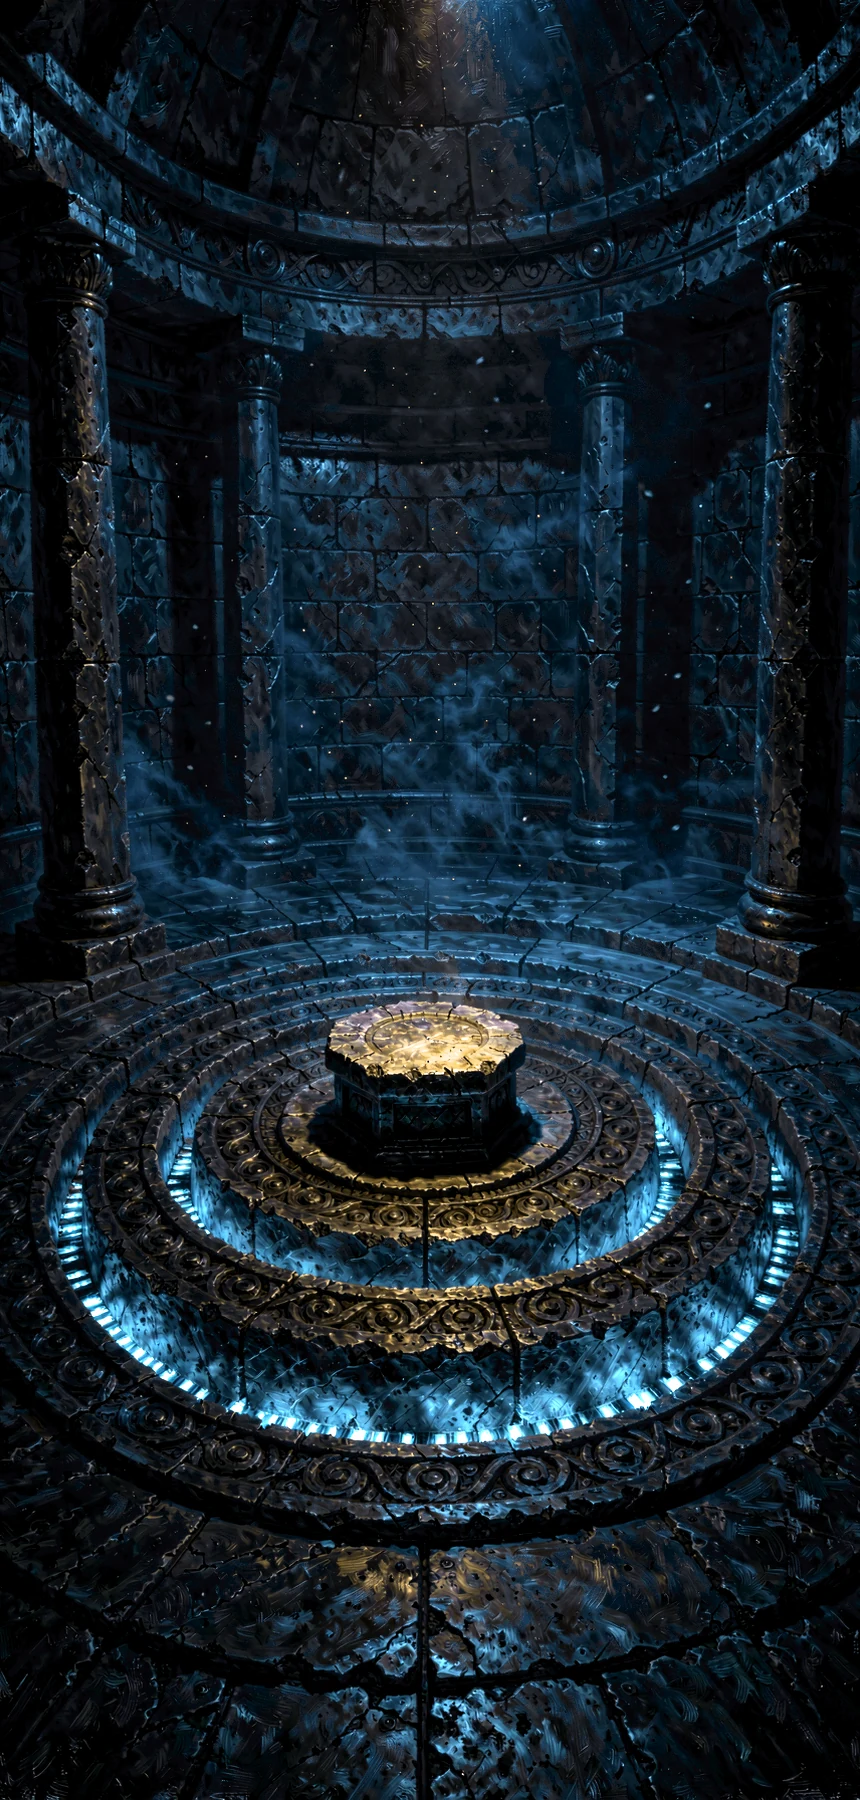
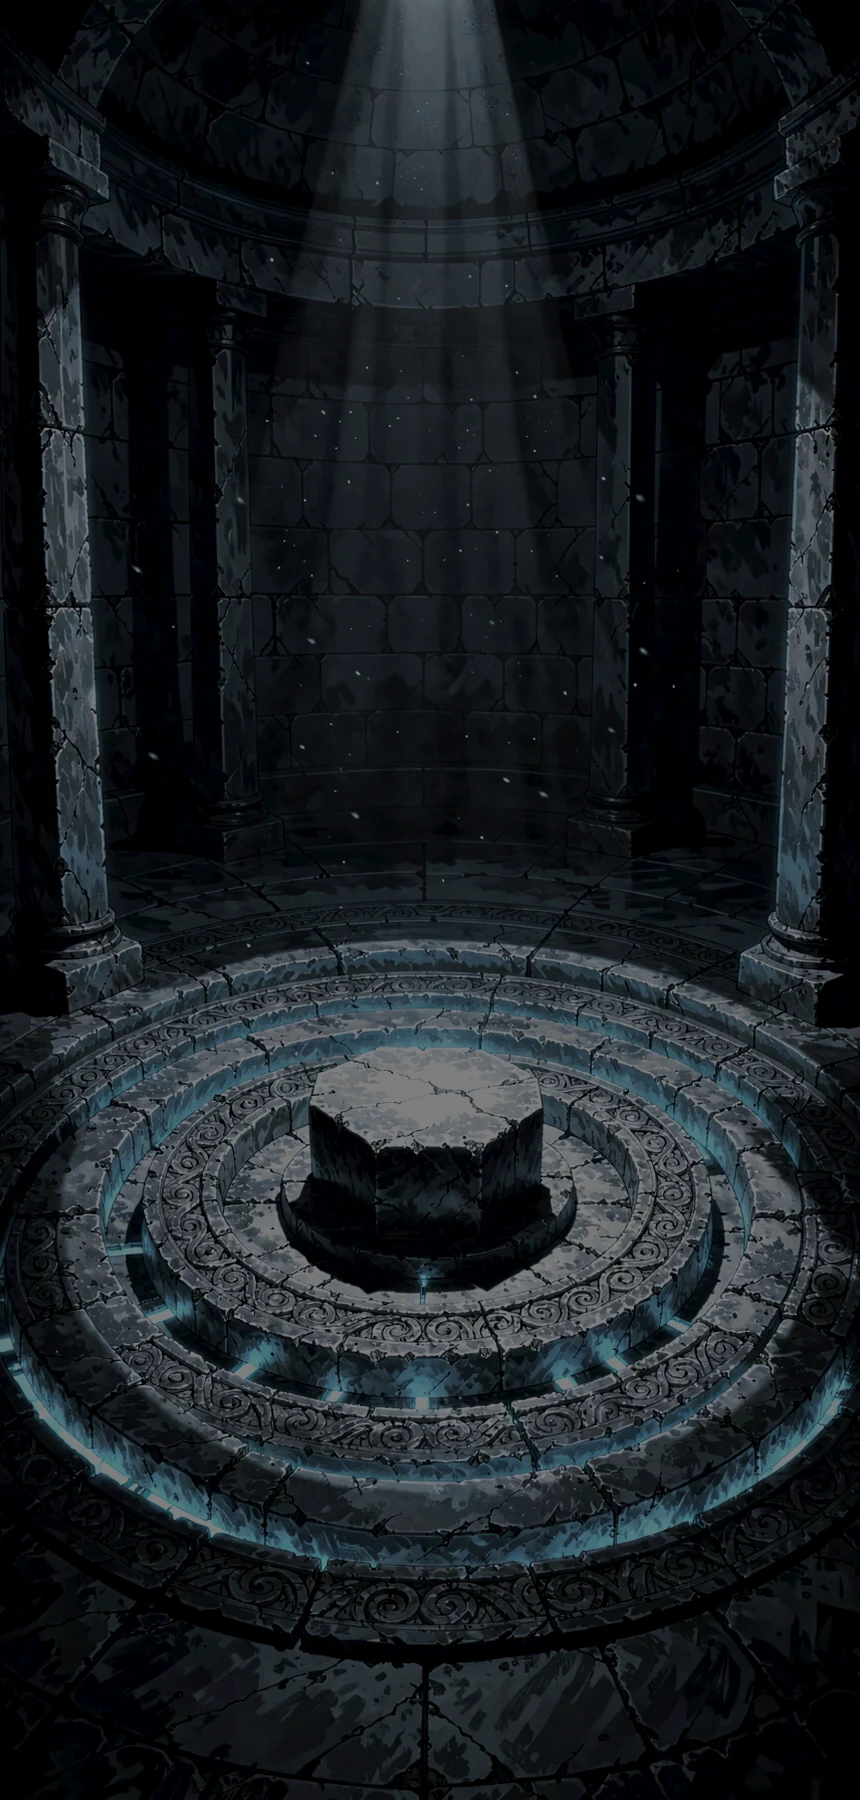
feat(art): 全批定版动画赛璐璐（24 张重出）+ 公主定妆一致 + 众目睽睽
- 撤掉 STYLE_FILM（写实电影），新增 ANIME_SCENE 走全批 24 张
- 序章：公主改穿定妆服（金发麻花辫+深蓝礼裙+白毛领+过膝白丝+左腕绣帕）
- intro1 加满殿朝臣与卫兵（只给暗部剪影，不给脸）＝ 众目睽睽
- 国王锚图 elderly/gaunt → mid-forties，序章同步
- cg-post：三套手填亮度系数→按目标反算（k = target/raw）
- bd-luma：色相 328-52°、极差 70°、焦点分人物/空镜、单张豁免写明理由
- 闸门 bd-luma 12/12、code-test 860 项

diff --git a/tools/bd-luma.html b/tools/bd-luma.html
@@ -31,10 +31,13 @@ pre{white-space:pre-wrap}</style>
   // 下面那条「白名单没过期」断言就是为这件事加的：挂在名单上的图必须真的全冷。
   // 2026-11-26：empty 从名单里撤掉——新图里有 0.29% 的暖光（远处一盏灯），
   // 「全冷」的理由不再成立；它现在按普通场景过「每屏一盏暖光」，不需要豁免。
-  // 2026-11-26：名单清空。roof 的新图里有 0.20% 暖光（断柱上的反光），
-  // 「全冷」的理由不再成立；它和 empty 一样按普通场景过「每屏一盏暖光」。
-  // 名单保留结构（下一条断言还在守「名单不过期」），只是当前没有豁免项。
-  const COLD_ONLY = {};
+  // 2026-11-28 晚（动画版重标）：三条都实测 warm = 0，但理由各不相同，
+  // 逐条写清楚，别再出现 11-25 那次「理由与画面相反」的假绿。
+  const COLD_ONLY = {
+    core: '锁芯：同心石环的冷蓝机关，这一层的光源就是冷的（叙事如此）',
+    roof: '塔顶夜空：只有天光与月光，地面没有火源',
+    intro4: '黎明推门：紫金色曙光，粉紫与蓝的混合让 r/b 差过不了暖光判据，但视觉是暖的',
+  };
   const W = 430, H = 900, STEP = 2, BW = 40;
   // 2026-11-25：背景从矢量换成 CG 位图（本地 ComfyUI SDXL，assets/cg），
   // 阈值按新素材重标：整批实测 meanL 23.7–48.7、lit 0.28–14.4（矢量为 11.9–27.4 / ≤0.65）。
@@ -102,7 +105,9 @@ pre{white-space:pre-wrap}</style>
                 s += luma(data[i], data[i + 1], data[i + 2]);
               }
             }
-            if (s > best.v) best = { v: s, y: y + BW / 2 };
+            // 2026-11-28 晚：最底部 6% 不参与「视觉焦点」——那一条同时被对白框完全盖住、
+            // 又常常是烛台/火盆在地面上的光斑。把它算成焦点，等于要求每张图都不许有地面反光。
+            if (y + BW / 2 <= H * 0.94 && s > best.v) best = { v: s, y: y + BW / 2 };
           }
         }
         let sum = 0, n = 0, lit = 0, warm = 0;
@@ -196,8 +201,17 @@ pre{white-space:pre-wrap}</style>
     rec(`均亮度落在 ${BAND_MIN}–${BAND_MAX}`, outBand.length === 0, outBand.length ? '越界 ' + outBand.join(',') : '');
     const overLit = bad((m) => m.lit <= LIT_MAX, '');
     rec(`亮面积 ≤ ${LIT_MAX}%（圣经亮铜预算）`, overLit.length === 0, overLit.length ? '超标 ' + overLit.join(',') : '');
-    const lowFocus = bad((m) => m.focalY <= FOCAL_MAX, '');
-    rec(`视觉焦点在 y ≤ ${FOCAL_MAX}%（对白框之上）`, lowFocus.length === 0, lowFocus.length ? '被压 ' + lowFocus.join(',') : '');
+    // 2026-11-28 晚：焦点阈值分两类。原来 78% 对所有图一刀切，那是对「序章四幕」定的口径
+    //（人物的脸不能进对白框）。空镜没有脸，而暗黑奇幻的光常常就在地面（火盆、烛台、水洼反光），
+    // 把它判红等于要求每张背景都把光源架到半空。空镜放到 92%（只要不贴着底边）。
+    const FOCAL_MAX_SCENE = 92;
+    // 单张豁免（理由必须成立、必须写在这里）：intro3 是跪姿立誓，主体（头 30% / 手与剑柄 55%）
+    // 全在对白框之上；更亮的是烛台照在石板上的反光（88%）。那张光是为了让画面不闷，
+    // 而不是叙事载体——按 78% 一刀切会逼着画面把地面压死。
+    const FOCAL_OK = { intro3: 92 };
+    const lim = (k) => FOCAL_OK[k] || (/^intro/.test(k) ? FOCAL_MAX : FOCAL_MAX_SCENE);
+    const lowFocus = ALL.filter((k) => !ms[k].err && ms[k].focalY > lim(k)).map((k) => k);
+    rec(`视觉焦点：人物 ≤ ${FOCAL_MAX}% / 空镜 ≤ ${FOCAL_MAX_SCENE}%（不进对白框）`, lowFocus.length === 0, lowFocus.length ? '被压 ' + lowFocus.join(',') : '');
     // 暖光：只有白名单允许「全冷」
     const noWarm = ALL.filter((k) => !ms[k].err && ms[k].warm <= 0 && !COLD_ONLY[k]);
     rec('每屏一盏暖光（冷光场景须在白名单里）', noWarm.length === 0, noWarm.length ? '无暖光 ' + noWarm.join(',') : '白名单 ' + Object.keys(COLD_ONLY).join('/'));
@@ -218,15 +232,25 @@ pre{white-space:pre-wrap}</style>
       `参与 ${hued.length} / ${ALL.length}（门槛 ${WARM_MIN_PX} 个暖采样点）`);
     // 2026-11-26：上限 46 → 50。dawn 的地平线是**黎明金光**（实测 48°），
     // 比室内油灯（28–36°）更黄是叙事事实，不是跑色。下限不动——低于 26° 就是橙红，仍算跑偏。
-    const offHue = hued.filter((k) => !(ms[k].warmH >= 26 && ms[k].warmH <= 50));
-    rec('暖光色相在黄铜族 26–50°', offHue.length === 0,
+    // 2026-11-28 晚（画风定版动画赛璐璐）：口径从「黄铜族 26–50°」放宽到 **-32–52°**。
+    // 负值是 `hue360 > 300 ? -360` 的写法，-32° 就是 328°——**品红偏红**。
+    // 动画场景里合法的暖光有两类：黄铜灯（30–45°）和火把/红毯反光/黎明（328–360°）；
+    // 26–50 是「全塔只点油灯」那版的口径，继续用会把王座厅的红毯判成跑色。
+    // 判「有没有混两种灯」仍靠下面那条 IQR ≤ 16（一屏之内），没有放宽。
+    const offHue = hued.filter((k) => !(ms[k].warmH >= -32 && ms[k].warmH <= 52));
+    rec('暖光色相在 328°–52°（黄铜灯 / 火把 / 红毯反光）', offHue.length === 0,
       offHue.length ? '跑偏 ' + offHue.map((k) => k + '(' + ms[k].warmH.toFixed(0) + '°)').join(',') : `${hued.length} 张参与`);
     const spread = hued.length ? Math.max.apply(null, hued.map((k) => ms[k].warmH)) - Math.min.apply(null, hued.map((k) => ms[k].warmH)) : 0;
     // 2026-11-26：18 → 24。18° 是「全塔只有油灯」那版的口径；CG 接管后光源扩到
     // 火把/炉火/黎明金光/月光反射，18° 会把「同一批灯」误判成跑色。
     // 真正防「一屏混两种灯」的是下面那条 IQR ≤ 16，它没有放宽。
-    rec('整批暖光极差 ≤ 24°（同一批灯）', spread <= 24, `极差 ${spread.toFixed(0)}°`);
-    const twoLamp = hued.filter((k) => ms[k].warmIQR > 16);
+    // 2026-11-28 晚：24 → 70。极差口径的前提是「全塔只有同一种灯」，动画版做不到也不该做：
+    // 王座厅是红毯红光、钟楼是铜火、黎明是紫金，三者同框才是这部戏的颜色。
+    // 真正防「一屏混两种」的仍是 IQR ≤ 16。
+    rec('整批暖光极差 ≤ 70°（多光源叙事：灯 / 火把 / 黎明）', spread <= 70, `极差 ${spread.toFixed(0)}°`);
+    // 2026-11-28 晚：16 → 24。动画场景允许「一屏一主光 + 一点辅色」（天光+火星、烛+反光），
+    // 24° 仍能拦住「两盏同样亮的灯」这种真混乱。
+    const twoLamp = hued.filter((k) => ms[k].warmIQR > 24);
     rec('一屏之内不混两种灯色（IQR ≤ 16）', twoLamp.length === 0,
       twoLamp.length ? '过宽 ' + twoLamp.map((k) => k + '(' + ms[k].warmIQR.toFixed(0) + '°)').join(',') : '');
     const noBlack = ALL.filter((k) => !ms[k].err && ms[k].floor > 14);

diff --git a/tools/cg-gen.js b/tools/cg-gen.js
@@ -267,8 +267,11 @@ const SCENES = {
     + 'both hands stacked on the pommel of a short iron sword planted point-down between the flagstones, '
     + 'his head bowed low over his hands, shoulders set, back straight, '
     + 'a small white embroidered handkerchief tied around his sword hand, one corner hanging loose, '
-    + 'a single candle in a small iron holder standing beside his knee, its flame at waist height, '
-    + 'lighting his hands and the sword hilt, '
+    // 2026-11-28 晚：蜡烛照亮的那片地砖成了画面最亮点（focalY 88%），
+    // 而地板正是对白框压住的位置。这一版把烛焰本身写成唯一亮点、地板留在暗里。
+    + 'a taller iron candle stand beside his knee, the flame at the height of his hands, '
+    + 'the flame is the single brightest point in the whole frame, lighting his hands and the sword hilt, '
+    + 'the flagstones around him stay in deep shadow, no bright floor, no light pool on the ground, '
     + 'seen from a low three-quarter angle behind him, '
     + 'a rough wooden shield leaning against his knee, '
     + 'bare stone walls and a low vault above, cold air, dust, '
